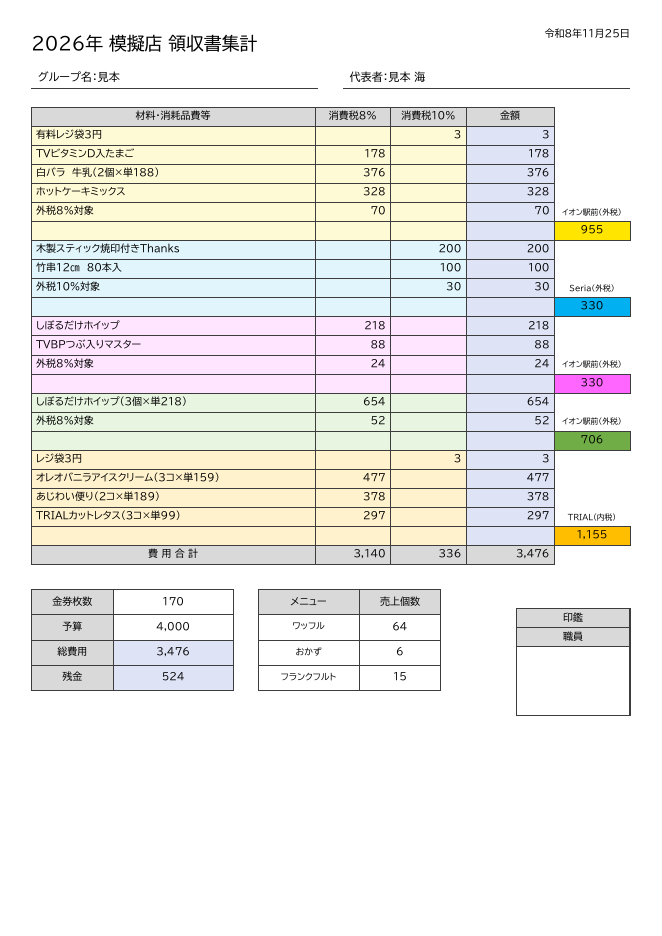
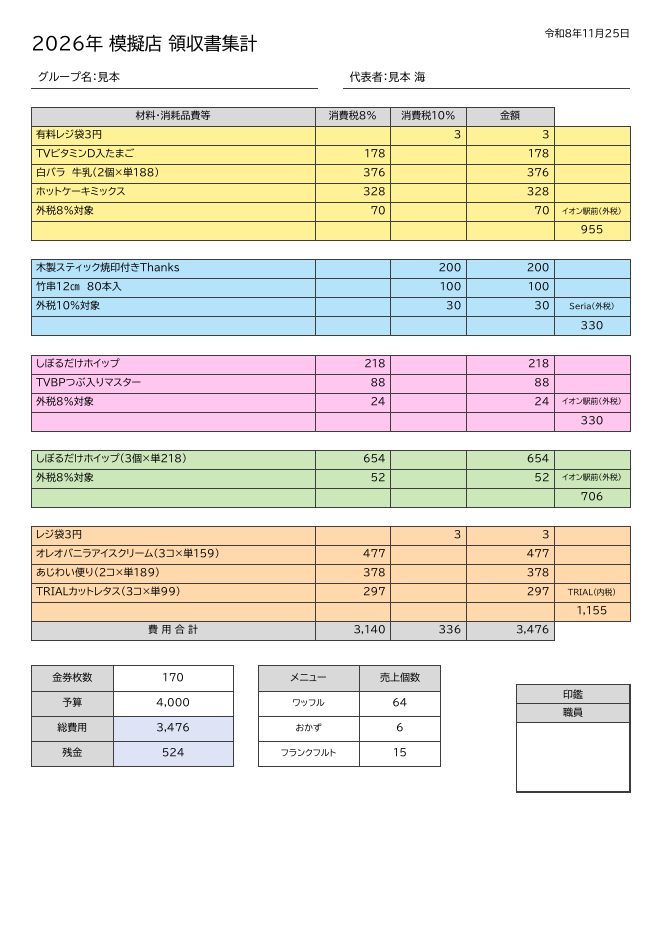
feat(pdf): blank row between stores, one color per store
Claude-Session: https://claude.ai/code/session_01XecEAdTh6sZaU1ZMhhgcpF

diff --git a/src/pdf/exportPdf.ts b/src/pdf/exportPdf.ts
@@ -10,7 +10,7 @@ const FONT = 'BIZUDPGothic';
 const FONT_FILE = 'BIZUDPGothic-Regular.ttf';
 const MARGIN = 10;
 const HEAD_FILL: [number, number, number] = [217, 217, 217];
-const AMOUNT_FILL: [number, number, number] = [221, 228, 245];
+const SUMMARY_FILL: [number, number, number] = [221, 228, 245];
 const BORDER: [number, number, number] = [60, 60, 60];
 
 const pad = (n: number) => String(n).padStart(2, '0');
@@ -101,20 +101,17 @@ export function createPdf(data: AppData, fontBase64: string, now: Date = new Dat
       }
       const row = rowOf(d);
       if (!row) return;
-      const color = storeColor(row.receiptIndex);
-      if (d.column.index < 4) {
-        d.cell.styles.fillColor = d.column.index === 3 ? AMOUNT_FILL : color.tint;
+      // 店と店の間は白い空欄の行（枠線なし）
+      if (row.kind === 'spacer') {
+        d.cell.styles.fillColor = false; // 紙の白のまま（塗ると上の店の下線が消える）
+        d.cell.styles.lineWidth = 0;
+        d.cell.styles.minCellHeight = 4;
         return;
       }
-      // 右端の列: 店名は枠なし・小さい文字、店の合計は店の色で塗る
-      if (row.kind === 'storeEnd') {
-        d.cell.styles.fillColor = color.solid;
-        d.cell.styles.fontSize = row.side.includes('\n') ? 7 : 9;
-        d.cell.styles.lineWidth = 0.2;
-      } else {
-        d.cell.styles.fillColor = false;
-        d.cell.styles.lineWidth = 0;
-        d.cell.styles.valign = 'bottom';
+      // 店の行は、表も店名・店の合計のセルもすべて同じ色
+      d.cell.styles.fillColor = storeColor(row.receiptIndex);
+      if (d.column.index === 4) {
+        d.cell.styles.fontSize = row.kind === 'storeEnd' && !row.side.includes('\n') ? 9 : 7;
       }
     },
   });
@@ -157,7 +154,7 @@ export function createPdf(data: AppData, fontBase64: string, now: Date = new Dat
       columnStyles: { 0: { cellWidth: 26, fillColor: HEAD_FILL }, 1: { cellWidth: 38 } },
       didParseCell: (d) => {
         const label = summaryRows[d.row.index]?.[0];
-        if (d.column.index === 1 && (label === '総費用' || label === '残金')) d.cell.styles.fillColor = AMOUNT_FILL;
+        if (d.column.index === 1 && (label === '総費用' || label === '残金')) d.cell.styles.fillColor = SUMMARY_FILL;
       },
     });
   }

diff --git a/src/domain/colors.ts b/src/domain/colors.ts
@@ -1,22 +1,17 @@
-/** 店（レシート）ごとの色。PDFとホーム画面で同じ順に使う。 */
-export interface StoreColor {
-  /** 店の合計セル・カードの帯 */
-  solid: [number, number, number];
-  /** 商品行の薄い背景 */
-  tint: [number, number, number];
-}
+export type RGB = [number, number, number];
 
-export const STORE_COLORS: StoreColor[] = [
-  { solid: [255, 230, 0], tint: [255, 251, 214] }, // 黄
-  { solid: [0, 176, 240], tint: [224, 245, 253] }, // 青
-  { solid: [255, 102, 255], tint: [255, 230, 255] }, // 桃
-  { solid: [112, 173, 71], tint: [233, 244, 225] }, // 緑
-  { solid: [255, 192, 0], tint: [255, 242, 204] }, // 橙
-  { solid: [155, 120, 230], tint: [238, 232, 252] }, // 紫
-  { solid: [255, 110, 110], tint: [255, 232, 232] }, // 赤
-  { solid: [0, 200, 180], tint: [220, 247, 243] }, // 青緑
+/** 店（レシート）ごとの色。PDFの表・店名・店の合計と、ホーム画面のカードで同じ色を使う。 */
+export const STORE_COLORS: RGB[] = [
+  [255, 241, 150], // 黄
+  [180, 228, 250], // 青
+  [255, 200, 240], // 桃
+  [205, 232, 185], // 緑
+  [255, 218, 170], // 橙
+  [220, 208, 250], // 紫
+  [255, 200, 200], // 赤
+  [175, 235, 225], // 青緑
 ];
 
-export const storeColor = (index: number): StoreColor => STORE_COLORS[index % STORE_COLORS.length];
+export const storeColor = (index: number): RGB => STORE_COLORS[index % STORE_COLORS.length];
 
-export const rgb = ([r, g, b]: [number, number, number]) => `rgb(${r} ${g} ${b})`;
+export const rgb = ([r, g, b]: RGB) => `rgb(${r} ${g} ${b})`;

diff --git a/src/pdf/ledger.ts b/src/pdf/ledger.ts
@@ -3,7 +3,7 @@ import type { Receipt, Summary } from '../domain/types';
 
 export const LEDGER_HEAD = ['材料・消耗品費等', '消費税8%', '消費税10%', '金額', ''] as const;
 
-export type LedgerRowKind = 'item' | 'tax' | 'storeEnd';
+export type LedgerRowKind = 'item' | 'tax' | 'storeEnd' | 'spacer';
 
 export interface LedgerRow {
   kind: LedgerRowKind;
@@ -26,7 +26,7 @@ export const modeLabel = (r: Receipt) => (r.taxMode === 'exclusive' ? '外税' :
 
 /**
  * 見本の「領収書集計」と同じ並びの表を作る。
- * 店ごとに: 商品行 → 外税なら「外税8%対象」「外税10%対象」（0円は出さない）→ 店の合計の行。
+ * 店と店の間には空欄の行。店ごとに: 商品行 → 外税なら「外税8%対象」「外税10%対象」（0円は出さない）→ 店の合計の行。
  */
 export function buildLedger(receipts: Receipt[]): LedgerTable {
   const rows: LedgerRow[] = [];
@@ -55,6 +55,8 @@ export function buildLedger(receipts: Receipt[]): LedgerTable {
     const end: LedgerRow = { kind: 'storeEnd', receiptIndex, name: '', c8: '', c10: '', amount: '', side: formatNumber(t.total) };
     if (body.length > 0) body[body.length - 1].side = label;
     else end.side = `${label}\n${end.side}`;
+    // 店と店の間に白い空欄の行を入れる
+    if (receiptIndex > 0) rows.push({ kind: 'spacer', receiptIndex, name: '', c8: '', c10: '', amount: '', side: '' });
     rows.push(...body, end);
 
     sum8 += t.subtotal8 + t.tax8;

diff --git a/src/pdf/ledger.test.ts b/src/pdf/ledger.test.ts
@@ -24,6 +24,7 @@ test('見本と同じ並び: 商品 → 外税対象 → 店の合計', () => {
     ['item', 0, '竹串', '', '100', '100', ''],
     ['tax', 0, '外税10%対象', '', '30', '30', 'Seria（外税）'],
     ['storeEnd', 0, '', '', '', '', '330'],
+    ['spacer', 1, '', '', '', '', ''],
     ['item', 1, 'レジ袋', '', '3', '3', ''],
     ['item', 1, 'あじわい便り', '378', '', '378', 'TRIAL（内税）'],
     ['storeEnd', 1, '', '', '', '', '381'],
@@ -74,4 +75,9 @@ test('集計とメニュー: 未入力は出さない', () => {
     ['ワッフル', '64'],
     ['おかず', ''],
   ]);
+});
+
+test('空欄の行は店と店の間だけ（先頭と末尾には入れない）', () => {
+  const { rows } = buildLedger([receipt('A', 'inclusive', []), receipt('B', 'inclusive', []), receipt('C', 'inclusive', [])]);
+  expect(rows.map((r) => r.kind)).toEqual(['storeEnd', 'spacer', 'storeEnd', 'spacer', 'storeEnd']);
 });

diff --git a/src/ui/Home.tsx b/src/ui/Home.tsx
@@ -10,7 +10,7 @@ export function ReceiptCard(props: { receipt: Receipt; index: number; onEdit(): 
   const shown = receipt.items.slice(0, PREVIEW_ITEM_LIMIT);
   const rest = receipt.items.length - shown.length;
   return (
-    <li className="receipt-card" style={{ borderLeftColor: rgb(storeColor(props.index).solid) }}>
+    <li className="receipt-card" style={{ borderLeftColor: rgb(storeColor(props.index)) }}>
       <div className="receipt-card-main">
         <div className="receipt-card-title">
           <h2>{receipt.storeName}</h2>
